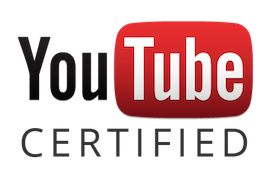
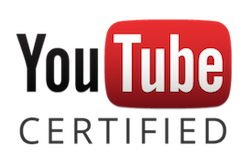
sadasd

diff --git a/index.html b/index.html
@@ -69,9 +69,9 @@
 								
 							<div style="text-align:center">
 								
-								<div style="display:inline-block;padding:3px"><a href="https://support.google.com/youtube/answer/2952738?hl=en&rd=1"><img src="images/youtubecert.png"></a></div> 
+								<div style="display:inline-block;padding:5px"><a href="https://support.google.com/youtube/answer/2952738?hl=en&rd=1"><img src="images/youtubecert.png"></a></div> 
 
-								<div style="display:inline-block;padding:3px"><img src="images/about.jpg"/></div>
+								<div style="display:inline-block;padding:5px"><img src="images/about.jpg"/></div>
 							</div>
 					
 							</article>
